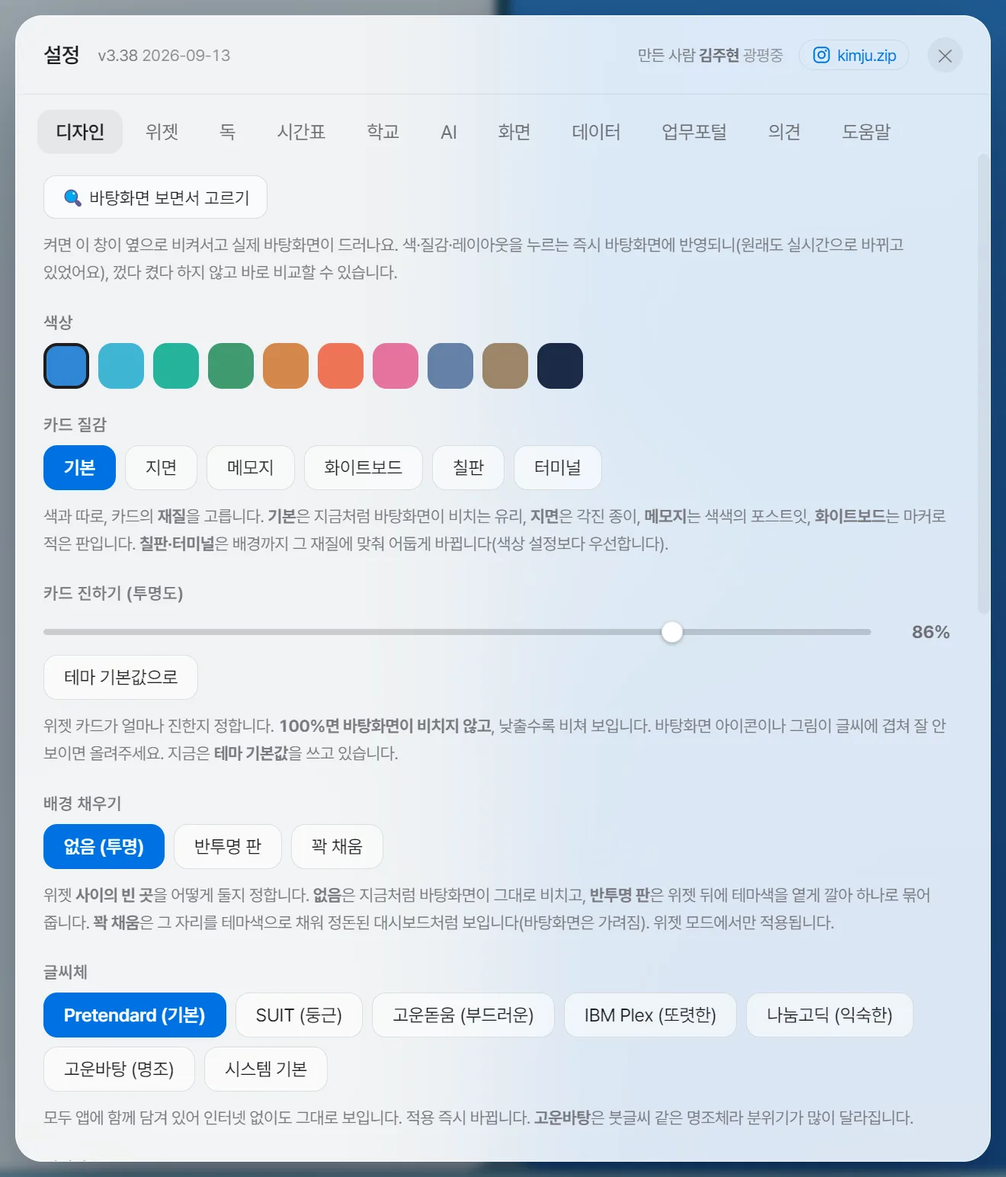
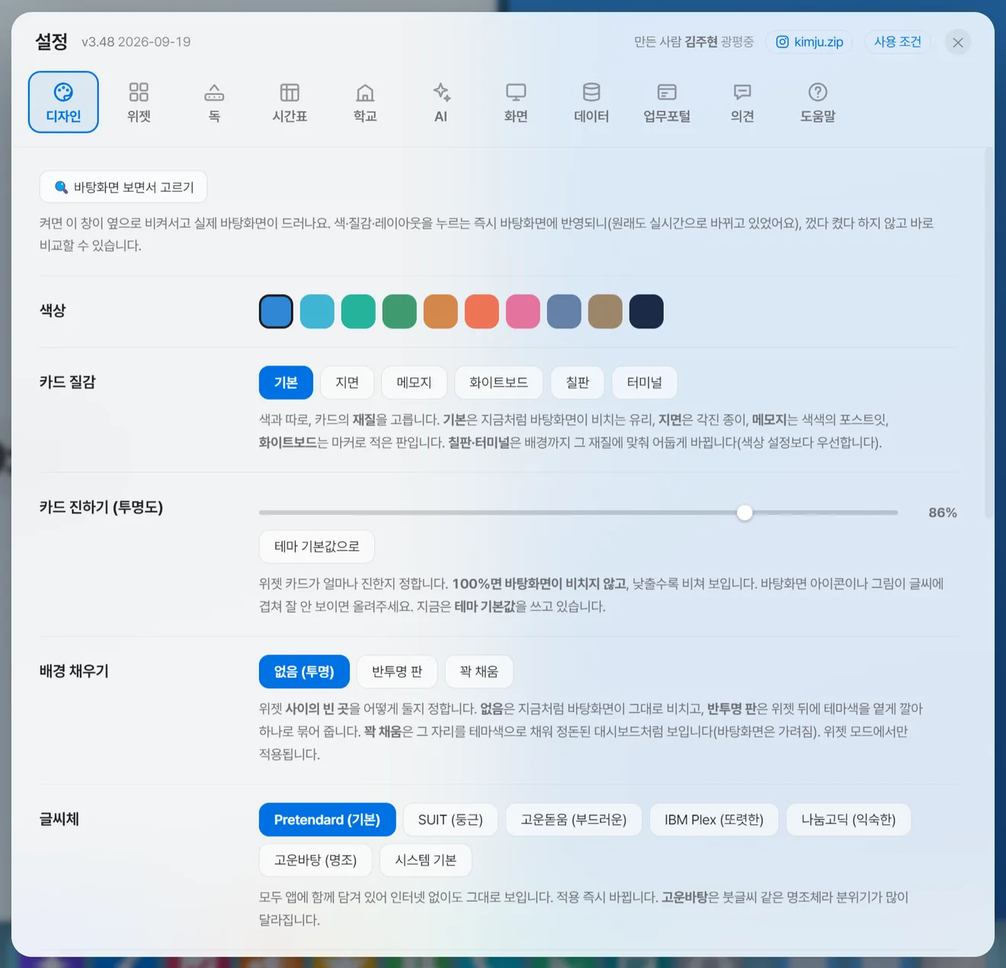
td2 설명서 v3.48 — 7-17 조례·종례 · 6-1 수업 전 알림·학반 칸 고치기 · 시계 13가지 · 새 설정 창 그림 · 비담임 · 폰 조종례·캘린더 교무실 · 일지

diff --git a/td2/index.html b/td2/index.html
@@ -461,6 +461,7 @@
       <a class="s2" href="#d-sign"><span class="num">7-14</span>전광판</a>
       <a class="s2" href="#d-drawer"><span class="num">7-15</span>서랍 · 고정 파일</a>
       <a class="s2" href="#d-clean"><span class="num">7-16</span>바탕화면 정리</a>
+      <a class="s2" href="#d-jojong"><span class="num">7-17</span>조례·종례</a>
       <a href="#phone"><span class="num">폰</span>폰 연동 (m.kimju.kr/td2)</a>
       <a href="#scfg"><span class="num">08</span>설정 낱낱이</a>
       <a href="#s7"><span class="num">09</span>위젯 모드 · 단축키</a>
@@ -569,6 +570,7 @@
         <a class="s2" href="#d-sign">7-14 · 전광판</a>
         <a class="s2" href="#d-drawer">7-15 · 서랍 · 고정 파일</a>
         <a class="s2" href="#d-clean">7-16 · 바탕화면 정리</a>
+        <a class="s2" href="#d-jojong">7-17 · 조례·종례</a>
         <a href="#phone">폰 · 폰 연동 (m.kimju.kr/td2)</a>
         <a href="#scfg">08 · 설정 낱낱이</a>
         <a href="#s7">09 · 위젯 모드 · 단축키</a>
@@ -669,7 +671,8 @@
               <div class="fx" data-k="학반 시간표 나란히 같이 보기 두 개 카드"><span class="fn">내 시간표와 학반 시간표 나란히 <span class="ftag off">기본 꺼짐</span></span><span class="fw">설정 [위젯] → <b>학반 시간표</b>를 켜고 [직접 배치로 두기] — 카드 제목 옆 「2-3 ▾」로 반을 바꿉니다(주간 시간표 쪽 반과 따로 기억)</span></div>
               <div class="fx" data-k="교시 시각 쉬는 시간 시정 수기 직접"><span class="fn">교시 시각 직접 정하기</span><span class="fw">설정 [시간표] → 교시 시각 <b>[수기 입력]</b> — 쉬는 시간이 교시마다 다른 학교(1교시 뒤 15분, 2교시 뒤 10분)는 여기서 맞춥니다</span></div>
               <div class="fx" data-k="요일마다 다른 시정 수요일 단축"><span class="fn">요일마다 다른 시정</span><span class="fw">설정 [시간표] → 수기 입력 → <b>어느 요일</b>에서 그 요일만 따로 적습니다(수요일 단축 등)</span></div>
-              <div class="fx" data-k="수업 시작 알림 종 울림 교시"><span class="fn">수업 시작 알림 <span class="ftag off">기본 꺼짐</span></span><span class="fw">설정 [시간표] 맨 위 — 과목을 적어 둔 교시만 울립니다. 딱 맞춰·5분 전·10분 전</span></div>
+              <div class="fx" data-k="수업 시작 알림 수업 전 알림 종 울림 교시 1분 전 방송 멘트 목소리 초등 큰 팝업 화면 전체 보조 모니터 TV"><span class="fn">수업 전 알림 <span class="ftag off">기본 꺼짐</span> <span class="ftag hid">큰 팝업·목소리 v3.48~</span></span><span class="fw">설정 [시간표] 맨 위 — 내 수업만/모든 교시(초등) · 시작 시각~10분 전 · 작은 알림/가운데 큰 팝업/화면 전체 · 멘트를 목소리로 → <a href="#w-ttalm">6-1</a></span></div>
+              <div class="fx" data-k="학반 시간표 칸 고치기 수정 과목 바꾸기 선생님 나이스 덮기 수업 없음"><span class="fn">학반 시간표 칸 고치기 <span class="ftag hid">v3.48~</span></span><span class="fw">주간 시간표 [학반]에서 칸을 누르면 과목·선생님을 고칩니다. 나이스보다 앞서고 [나이스 값으로] 되돌리기 → <a href="#w-tt">6-1</a></span></div>
               <div class="fx" data-k="퇴근하세요 문구 바꾸기 공강 지금 이 시간"><span class="fn">「퇴근하세요!」 문구 바꾸기</span><span class="fw">설정 [시간표] 아래쪽 — 수업 전·공강·퇴근 뒤에 뜰 말을 직접 씁니다(교실 화면에 띄우실 때)</span></div>
               <div class="fx" data-k="전체 시간표 과목별 교사별 학급별 겹침"><span class="fn">전체 시간표(과목별·교사별)</span><span class="fw">시간표 제목 옆 <b>[전체 시간표]</b> — 학기 정규 시간표를 과목별·교사별·학급별(오늘)로 봅니다</span></div>
               <div class="fx" data-k="학교 전체 시간표 모든 학급 한눈에 한 장 오늘 전체시간표 학급시간표 컴시간 알리미"><span class="fn">학교 전체 시간표 한 장 <span class="ftag hid">v3.45~</span></span><span class="fw">[전체 시간표] → [학급별(오늘)] → <b>[학교 전체]</b> — 모든 학급의 오늘 시간표를 왼쪽 교시·가로 학급 표 한 장으로</span></div>
@@ -704,10 +707,12 @@
               <div class="fx" data-k="조식 석식 저녁 아침 끼니"><span class="fn">조식·중식·석식 골라 보기</span><span class="fw">설정 [위젯] → 급식 → <b>보여줄 끼니</b>. 세 끼가 다 뜨면 좁은 카드에서 중식이 잘리거든요</span></div>
               <div class="fx" data-k="시간대별 날씨 비 언제 몇시 강수확률"><span class="fn">시간대별 날씨 <span class="ftag hid">숨은 자리</span></span><span class="fw">날씨 카드에 「시간대별」 화살표가 보이면 <b>카드를 클릭</b> — 18시간치 날씨·기온이 뜨고, <b>그 시간에 내 수업이 있으면 교시와 과목이 함께</b> 붙습니다(월~금, 체육 시간 확인용)</span></div>
               <div class="fx" data-k="날씨 지역 안 맞음 다른 곳 구미"><span class="fn">날씨 지역 바꾸기</span><span class="fw">설정 [학교] → 날씨 지역 — 「경상북도 구미시」보다 <b>「구미」</b>처럼 짧게 넣는 편이 잘 잡힙니다</span></div>
-              <div class="fx" data-k="시계 모양 아날로그 바늘 오전 오후 초"><span class="fn">시계 모양 5가지</span><span class="fw">설정 [디자인] → 시계 모양 — 기본·오전/오후·초까지·바늘·타일. <b>바늘 시계는 저학년 시각 읽기 지도</b>에도 쓰입니다</span></div>
+              <div class="fx" data-k="시계 모양 아날로그 바늘 오전 오후 초"><span class="fn">시계 모양 13가지</span><span class="fw">설정 [디자인] → 시계 모양 — 기본·오전/오후·초까지·바늘·타일·넘김판·전자시계·초 고리·한글 시계·교실 벽시계·세로 쌓기·하루 막대·알약. <b>바늘 시계는 저학년 시각 읽기 지도</b>에도 쓰입니다</span></div>
             </div>
 
             <div class="fgroup"><h4>명렬 · 출결 · 생기부</h4>
+              <div class="fx" data-k="조례 종례 조종례 전달사항 알림장 반톡 카톡 공지 멘트 AI"><span class="fn">조례·종례 전달사항 <span class="ftag hid">v3.48~</span></span><span class="fw">독 <b>✉ 조종례</b> — 짧게 적으면 저장 · [AI로 멘트 만들기] · [복사]로 카톡에 · 폰에서 [공유] → <a href="#d-jojong">7-17</a></span></div>
+              <div class="fx" data-k="비담임 담임 아님 담임 안 맡음 0학년 0반 교과"><span class="fn">비담임 <span class="ftag hid">v3.48~</span></span><span class="fw">설정 [학교] → 담임반 줄의 <b>[비담임]</b> — 출결은 명렬에 넣은 반으로, 생기부 학반 칸은 비워 둡니다. 학년·반을 0으로 적어도 비담임으로 봅니다</span></div>
               <div class="fx" data-k="명렬 학생 이름 등록 붙여넣기 번호"><span class="fn">명렬 만들기</span><span class="fw">독 <b>◫ 명렬</b> → 아래에서 학반(<b>「3-2」 꼴</b>)과 이름(여러 명은 <b>쉼표로</b>). <b>「3 홍길동」처럼 적으면 그 번호로</b> 들어갑니다. 엑셀 명단은 [📥 파일에서 불러오기]로</span></div>
               <div class="fx" data-k="학생 여러명 고르기 모으기 특수반 방과후 빼기 지우기 전학 한꺼번에"><span class="fn">여러 반 학생을 모으기 · 여러 명 빼기 <span class="ftag hid">숨은 자리</span></span><span class="fw">명렬 → <b>[여러 명 고르기]</b> → 이름을 눌러 고른 뒤 <b>[고른 N명 모으기]</b>. 특수반·방과후반처럼 흩어진 학생을 묶습니다(원래 반에서 빠지지 않습니다). 같은 자리의 <b>[고른 N명 빼기]</b>는 묻지 않고 빼니 6초 안에 [되돌리기]</span></div>
               <div class="fx" data-k="연락처 전화번호 학부모 부모 학생 휴대폰 선택과목 상세 보기 명렬 표 비고"><span class="fn">명렬에 연락처·선택과목 적기 <span class="ftag hid">v3.36~</span></span><span class="fw">명렬 → <b>[📋 상세 보기]</b> — 학생 연락처·부모 연락처·선택과목·비고가 표로 펼쳐지고, 칸을 눌러 엑셀처럼 고친 뒤 [저장]. 엑셀 명렬을 불러오면 이 열도 함께 읽고, 찾기 칸은 선택과목·연락처 끝 네 자리로도 거릅니다. <b>연락처를 가리지 않으니 학생이 보는 화면에서는 꺼 두세요</b></span></div>
@@ -822,15 +827,25 @@
           <div class="log-h"><h3>업데이트 일지</h3><span>새 판에서 달라진 것만 적어 둡니다.</span></div>
 
           <div class="log-item">
-            <div class="log-top"><span class="log-ver">v3.47</span><span class="log-date">2026. 9. 19.</span><span class="log-new">최신</span></div>
+            <div class="log-top"><span class="log-ver">v3.48</span><span class="log-date">2026. 9. 20.</span><span class="log-new">최신</span></div>
+            <ul>
+              <li><b>조례·종례</b> — 독 ✉ 조종례 · 적으면 저장 · AI 멘트 · 카톡 복사 · 폰 [공유] → <a href="#d-jojong">7-17</a></li>
+              <li><b>수업 전 알림</b> — 모든 교시(초등) · 1분 전 · 큰 팝업/화면 전체 · 목소리(여자·남자) · 모니터 고르기 → <a href="#w-ttalm">6-1</a></li>
+              <li><b>학반 시간표 칸 고치기</b> · <b>시계 13가지</b> · <b>새 설정 창</b> · <b>[비담임]</b> · 폰 캘린더에 교무실·업무 일정표</li>
+            </ul>
+          </div>
+
+          <details class="log-more">
+            <summary>지난 판 더 보기</summary>
+
+          <div class="log-item">
+            <div class="log-top"><span class="log-ver">v3.47</span><span class="log-date">2026. 9. 19.</span></div>
             <ul>
               <li><b>업무 일정표</b> — 달마다 탭이 있는 학교 시트의 부서별 일정을 [오늘] [주간] [월별]로 · [시트]는 그 날짜 줄로 → <a href="#w-yplan">6-19</a></li>
               <li><b>달력</b>에 업무 일정표·온라인 교무실을 함께 띄우기(부서·갈래 고르기) · 두 카드 이름 바꾸기 → <a href="#w-cal">6-3</a></li>
             </ul>
           </div>
 
-          <details class="log-more">
-            <summary>지난 판 더 보기</summary>
 
           <div class="log-item">
             <div class="log-top"><span class="log-ver">v3.46</span><span class="log-date">2026. 9. 19.</span></div>
@@ -1422,10 +1437,10 @@
         <p class="body">위젯 아래쪽 <strong>독(Dock)</strong>에서 <strong>톱니바퀴(설정)</strong>를 누르고 <strong>[학교] 탭</strong>으로 갑니다. (날씨 위젯의 <strong>[학교 설정]</strong> 버튼을 눌러도 같은 곳으로 가요.)</p>
         <div class="steps">
           <div class="step"><h4>학교 찾기</h4><p><strong>학교명</strong>을 입력하고 <code>검색</code>을 눌러 목록에서 우리 학교 줄을 누르세요. 누르는 순간 저장되고 「"○○" 등록 — 급식·일정·날씨를 받아옵니다」가 뜹니다. 못 찾으면 <strong>「용산초」처럼 짧게</strong> — 나이스 등록명에 지역명이 없는 학교가 많습니다.</p></div>
-          <div class="step"><h4>담임반 (선택)</h4><p>담임이라면 「담임반」에 학년·반 숫자를 넣으세요. 출결 표의 기본 반, 학반 시간표의 ★ 담임반, 생기부 학반 기본값에 쓰입니다.</p></div>
+          <div class="step"><h4>담임반 (선택)</h4><p>담임이라면 「담임반」에 학년·반 숫자를 넣으세요. 출결 표의 기본 반, 학반 시간표의 ★ 담임반, 생기부 학반 기본값에 쓰입니다. 담임이 아니시면 옆의 <strong>[비담임]</strong>을 누르세요.</p></div>
           <div class="step"><h4>날씨 지역 확인</h4><p>보통 학교 주소로 자동 인식됩니다. 날씨가 안 뜨면 <code>학교 주소로 다시 찾기</code>를 누르거나, 지역 칸에 <strong>시·군·구 이름</strong>만 넣고 <code>이 지역으로</code>를 눌러 주세요 — “경상북도 구미시”보다 <strong>“구미”</strong>가 더 잘 잡혀요.</p></div>
         </div>
-        <figure class="shot"><img src="shots/20-cfg-04-school.webp" width="1320" height="1544" alt="설정 학교 탭" loading="lazy"><figcaption><b>설정 → 학교 탭</b> — 학교 찾기 · 담임반 · 시간표 출처 · 날씨 지역 · 학사일정 · 구글 캘린더 · 새로 받기, 그리고 맨 아래 <b>NEIS 키</b> 칸이 있어요(Gemini 키는 [AI] 탭).</figcaption></figure>
+        <figure class="shot"><img src="shots/20-cfg-04-school.webp" width="1320" height="1271" alt="설정 학교 탭" loading="lazy"><figcaption><b>설정 → 학교 탭</b> — 학교 찾기 · 담임반 · 시간표 출처 · 날씨 지역 · 학사일정 · 구글 캘린더 · 새로 받기, 그리고 맨 아래 <b>NEIS 키</b> 칸이 있어요(Gemini 키는 [AI] 탭).</figcaption></figure>
         <div class="note warn"><span class="ic"><svg class="ic" viewBox="0 0 24 24"><path d="M12 4l9 16H3z"/><path d="M12 10.5v3.5"/><path d="M12 17h.01"/></svg></span><div><b>NEIS 키를 꼭 넣어 주세요 (중요)</b><p>학교 등록만 해도 급식·학사일정·시간표가 나옵니다(v3.22부터 키가 없어도 빠짐없이 받도록 고쳤습니다). 다만 키가 없으면 나이스가 <strong>한 번에 조금씩만</strong> 돌려줘서 여러 번 나눠 받느라 느리고, <strong>큰 학교는 전체 시간표가 일부만</strong> 나올 수 있으며, 학교 검색이 잘리면 「N곳 중 M곳만 보입니다」라고 알려 드립니다. <strong>NEIS 키는 무료</strong>이고 몇 분이면 받을 수 있으니 아래 순서대로 넣어 두세요.</p></div></div>
 
         <h3><svg class="ic" viewBox="0 0 24 24"><circle cx="8" cy="8" r="4.2"/><path d="M11 11l8.5 8.5"/><path d="M16 16l2-2M18.5 18.5l2-2"/></svg>NEIS 키 발급받아 넣기</h3>
@@ -1543,7 +1558,7 @@
           <img class="mini-art" src="mini-brush.png" width="360" height="360" alt="붓으로 별을 그리는 클레이 캐릭터" loading="lazy" />
         </div>
         <p class="body">설정에는 <strong>디자인 · 위젯 · 독 · 시간표 · 학교 · AI · 화면 · 데이터 · 업무포털 · 의견 · 도움말</strong> 열한 탭이 있어요. 꾸미기는 대부분 <strong>[디자인]</strong> 탭에서 해결되고, 누르는 즉시 바뀝니다(저장 단추 없음). 탭마다 들어 있는 항목은 08번에 모두 적어 두었습니다.</p>
-        <figure class="shot"><img src="shots/20-cfg-00-look.webp" width="1320" height="1544" alt="설정 디자인 탭" loading="lazy"><figcaption><b>설정 → 디자인 탭</b> — 테마 색 · 카드 질감 · 진하기 · 글씨체 · 레이아웃 · 캘린더 크기 · 시계 모양 · 직접 배치를 고릅니다.</figcaption></figure>
+        <figure class="shot"><img src="shots/20-cfg-00-look.webp" width="1320" height="1271" alt="설정 디자인 탭" loading="lazy"><figcaption><b>설정 → 디자인 탭</b> — 테마 색 · 카드 질감 · 진하기 · 글씨체 · 레이아웃 · 캘린더 크기 · 시계 모양 · 직접 배치를 고릅니다.</figcaption></figure>
         <div class="tips">
           <div class="tipcard"><span class="te"><svg class="ic" viewBox="0 0 24 24"><path d="M12 3a9 9 0 1 0 0 18c1.4 0 2-1 2-2s-.6-1.4-.6-2.4.7-1.6 1.6-1.6H18a3 3 0 0 0 3-3c0-4.4-4-6-9-6z"/><circle cx="7.5" cy="11.5" r="1"/><circle cx="10.5" cy="7.5" r="1"/><circle cx="15" cy="8" r="1"/></svg></span><h4>테마 색</h4><p>색 동그라미 <b>10개</b> — 왼쪽부터 파랑·하늘·민트·이끼·모래·산호·분홍·슬레이트·종이·나이트(어두움). 마우스를 올려도 이름은 안 뜨니 순서로 찾으세요.</p></div>
           <div class="tipcard"><span class="te"><svg class="ic" viewBox="0 0 24 24"><path d="M5 18L9.5 6l4.5 12"/><path d="M6.7 14h5.6"/><path d="M17 18v-6"/><path d="M14.5 12.5a2.5 2.5 0 0 1 5 0"/></svg></span><h4>글씨체</h4><p>프리텐다드·SUIT·고운돋움·IBM Plex·나눔고딕·고운바탕(명조)·시스템 기본 <b>7가지</b>. 글꼴이 프로그램에 들어 있어 인터넷 없이도 그대로 보여요.</p></div>
@@ -1564,7 +1579,7 @@
           <p>🖥 <strong>위젯을 다른 모니터에 띄우고 싶으세요?</strong> — <strong>설정 → [화면] 탭 → 「모니터」</strong>에서 <strong>주 모니터 · 왼쪽 화면 · 오른쪽 화면</strong> 중 하나를 고르시면 됩니다. 고르는 즉시 위젯 전체가 그 모니터로 옮겨 가요. <u>위젯을 마우스로 끌어서 다른 모니터로 넘기는 방식이 아닙니다</u> — 위젯 끌기는 <strong>한 모니터 안에서만</strong> 됩니다. 모니터가 한 대면 「주 모니터」 하나만 보입니다.</p>
           <p>🖥 <strong>노트북에 모니터를 붙였다 떼시나요? <span style="font-size:.85em;opacity:.7">(v3.0 · v3.10에서 더 정확해짐)</span></strong> — 배치는 <strong>화면 구성마다 따로</strong> 기억됩니다. 노트북만 쓸 때와 모니터를 붙였을 때가 각각 저장되어, <u>선을 뺐다 꽂아도 그 구성의 배치가 저절로 돌아옵니다</u>. 버튼을 누를 일도 없어요 — 자동입니다. v3.10부터는 <strong>모니터 대수까지 함께 기억</strong>해서, 두 구성의 해상도가 같아도 서로 섞이지 않습니다.</p>
           <p><strong>[다른 화면 구성에서 복사]</strong>는 언제 쓰나요? — <u>그 구성을 처음 만났을 때 한 번</u>입니다. 예를 들어 두 모니터에서 배치를 공들여 잡아 두었는데 HDMI를 뽑아 처음으로 한 모니터가 되면, 한 모니터 쪽에는 저장된 배치가 없어 기본 배치가 나옵니다. 이때 처음부터 다시 끌지 말고 이 버튼을 누르세요 — <strong>두 모니터에서 잡아 둔 배치를 화면 크기에 비율로 맞춰</strong> 가져옵니다. 시계가 오른쪽 위였으면 여기서도 오른쪽 위에, 축소판으로요. 어긋난 한두 개만 다듬으면 되고, 한 번 다듬어 두면 그다음부터는 이 구성도 저절로 돌아오는 쪽이 됩니다. (다른 구성에 저장된 배치가 있을 때만 버튼이 나타납니다.)</p></div></div><div class="note tip"><span class="ic"><svg class="ic" viewBox="0 0 24 24"><path d="M12 9v4"/><path d="M12 17h.01"/><circle cx="12" cy="12" r="9"/></svg></span><div><b>위젯을 켰는데 안 보인다면</b><p>레이아웃마다 담을 수 있는 자리가 정해져 있어요. 자리가 모자라면 그 위젯은 화면에 못 올라오고, [위젯] 탭에 <strong>“지금 레이아웃엔 자리가 없어요”</strong>라고 표시됩니다. 켤 때 화면 아래 뜨는 <strong>[직접 배치로 두기]</strong>를 누르면 빈 곳에 앉습니다(놓쳤으면 [디자인] → [지금 자리 그대로 굳히기]). 다른 레이아웃으로 바꾸거나 덜 쓰는 위젯을 꺼도 됩니다. <strong>주간학습안내 · 출결 · 학반 시간표 · 메모 2~4 · 앨범 2~4</strong>는 배치표에 자리가 없어 늘 직접 배치로 둡니다.</p></div></div>
-        <figure class="shot"><img src="shots/20-cfg-02-dock.webp" width="1320" height="1544" alt="설정 독 탭" loading="lazy"><figcaption><b>설정 → 독 탭</b> — 독 위치(아래/왼쪽/오른쪽/안 씀), 표시할 기능과 순서, 아이콘 모양, 프로그램 바로가기·서랍을 관리해요.</figcaption></figure>
+        <figure class="shot"><img src="shots/20-cfg-02-dock.webp" width="1320" height="1271" alt="설정 독 탭" loading="lazy"><figcaption><b>설정 → 독 탭</b> — 독 위치(아래/왼쪽/오른쪽/안 씀), 표시할 기능과 순서, 아이콘 모양, 프로그램 바로가기·서랍을 관리해요.</figcaption></figure>
         <p class="body"><strong>독(Dock)</strong>은 화면의 실행 막대예요. [독] 탭에서 <strong>표시할 기능과 순서</strong>를 바꾸고, 자주 쓰는 <strong>프로그램 바로가기</strong>를 끼워 넣을 수 있어요. 아이콘은 그림↔기호↔글자로 바꿔집니다. 프로그램 바로가기는 <strong>원래 아이콘을 또렷하게</strong> 가져와 놓아요.</p>
         <p class="body"><strong>독을 안 쓰실 수도 있어요 <span style="font-size:.85em;opacity:.7">(v2.9.19)</span></strong> — [독] 탭의 독 위치에서 <strong>안 씀</strong>을 고르면 독이 사라지고 <u>그 자리까지 위젯이 넓게 씁니다.</u> 위젯만 두고 깔끔하게 쓰고 싶을 때 좋아요. 아이콘 순서·모양은 그대로 남아 있어서 다시 켜면 예전 그대로 돌아옵니다.<br>다만 독으로 열던 <strong>AI 비서 · 생기부 · 전광판 · 즐겨찾기 · 명렬 · 내선번호</strong>와 <strong>서랍 · 프로그램 바로가기</strong>도 함께 사라지니 참고하세요. <u>설정은 화면 오른쪽 아래 트레이 아이콘을 우클릭</u>해 여시면 됩니다.</p>
         <h3><svg class="ic" viewBox="0 0 24 24"><path d="M12 3a9 9 0 1 0 0 18c1.4 0 2-1 2-2s-.6-1.4-.6-2.4.7-1.6 1.6-1.6H18a3 3 0 0 0 3-3c0-4.4-4-6-9-6z"/><circle cx="7.5" cy="11.5" r="1"/><circle cx="10.5" cy="7.5" r="1"/><circle cx="15" cy="8" r="1"/></svg>테마 색 10가지</h3>
@@ -1608,14 +1623,22 @@
           <figure><img src="shots/12-lay-09-j.webp" width="760" height="476" alt="와이드 배치" loading="lazy"><figcaption>와이드</figcaption></figure>
         </div>
 
-        <h3><svg class="ic" viewBox="0 0 24 24"><circle cx="12" cy="12" r="8"/><path d="M12 8v4l3 2"/></svg>시계 모양 5가지</h3>
-        <p class="body">설정 <strong>[디자인] → 시계 모양</strong>. <strong>바늘 시계</strong>는 저학년 시각 읽기 지도에도 쓰실 수 있고, <strong>오전·오후</strong>는 교실 뒤에서도 잘 보입니다.</p>
+        <h3><svg class="ic" viewBox="0 0 24 24"><circle cx="12" cy="12" r="8"/><path d="M12 8v4l3 2"/></svg>시계 모양 13가지 <span class="ftag hid">8가지 v3.48~</span></h3>
+        <p class="body">설정 <strong>[디자인] → 시계 모양</strong>. <strong>바늘 시계</strong>·<strong>교실 벽시계</strong>는 저학년 시각 읽기 지도에도 쓰실 수 있고, <strong>오전·오후</strong>·<strong>전자시계</strong>는 교실 뒤에서도 잘 보입니다. <strong>한글 시계</strong>는 «오후 세 시 사십칠 분»처럼 글로, <strong>하루 막대</strong>는 퇴근까지 남은 시간을 막대로 보여 줍니다.</p>
         <div class="gal c3">
-          <figure><img src="shots/13-clock-0-plain.webp" width="760" height="476" alt="기본 시계" loading="lazy"><figcaption>기본</figcaption></figure>
-          <figure><img src="shots/13-clock-1-ampm.webp" width="760" height="476" alt="오전 오후 시계" loading="lazy"><figcaption>오전·오후</figcaption></figure>
-          <figure><img src="shots/13-clock-2-sec.webp" width="760" height="476" alt="초까지 나오는 시계" loading="lazy"><figcaption>초까지</figcaption></figure>
-          <figure><img src="shots/13-clock-3-analog.webp" width="760" height="476" alt="바늘 시계" loading="lazy"><figcaption>바늘</figcaption></figure>
-          <figure><img src="shots/13-clock-4-tile.webp" width="760" height="476" alt="타일 시계" loading="lazy"><figcaption>타일</figcaption></figure>
+          <figure><img src="shots/13-clock-00-plain.webp" width="760" height="476" alt="기본 시계" loading="lazy"><figcaption>기본</figcaption></figure>
+          <figure><img src="shots/13-clock-01-ampm.webp" width="760" height="476" alt="오전 오후 시계" loading="lazy"><figcaption>오전·오후</figcaption></figure>
+          <figure><img src="shots/13-clock-02-sec.webp" width="760" height="476" alt="초까지 나오는 시계" loading="lazy"><figcaption>초까지</figcaption></figure>
+          <figure><img src="shots/13-clock-03-analog.webp" width="760" height="476" alt="바늘 시계" loading="lazy"><figcaption>바늘</figcaption></figure>
+          <figure><img src="shots/13-clock-04-tile.webp" width="760" height="476" alt="타일 시계" loading="lazy"><figcaption>타일</figcaption></figure>
+          <figure><img src="shots/13-clock-05-flip.webp" width="760" height="476" alt="넘김판 시계" loading="lazy"><figcaption>넘김판</figcaption></figure>
+          <figure><img src="shots/13-clock-06-seg.webp" width="760" height="476" alt="전자시계" loading="lazy"><figcaption>전자시계</figcaption></figure>
+          <figure><img src="shots/13-clock-07-ring.webp" width="760" height="476" alt="초 고리 시계" loading="lazy"><figcaption>초 고리</figcaption></figure>
+          <figure><img src="shots/13-clock-08-word.webp" width="760" height="476" alt="한글로 읽어 주는 시계" loading="lazy"><figcaption>한글 시계</figcaption></figure>
+          <figure><img src="shots/13-clock-09-school.webp" width="760" height="476" alt="교실 벽시계" loading="lazy"><figcaption>교실 벽시계</figcaption></figure>
+          <figure><img src="shots/13-clock-10-stack.webp" width="760" height="476" alt="시와 분을 세로로 쌓은 시계" loading="lazy"><figcaption>세로 쌓기</figcaption></figure>
+          <figure><img src="shots/13-clock-11-bar.webp" width="760" height="476" alt="퇴근까지 남은 시간 막대 시계" loading="lazy"><figcaption>하루 막대</figcaption></figure>
+          <figure><img src="shots/13-clock-12-pill.webp" width="760" height="476" alt="알약 모양 시계" loading="lazy"><figcaption>알약</figcaption></figure>
         </div>
 
       </section>
@@ -1730,8 +1753,26 @@
             <ul>
               <li>처음 보이는 반 — 전에 고른 반 → 없으면 설정 [학교]의 <strong>담임반</strong> → 그것도 없으면 목록 첫 반. 제목 옆에 「2학년 3반 · 담임반 · 이번 학기」</li>
               <li>칸마다 과목 옆에 <strong>선생님 이름</strong>이 작게 붙습니다 — [전체 시간표] → 과목별에서 적어 둔 이름입니다</li>
-              <li>🔴 <strong>남의 반 칸은 눌러도 고쳐지지 않습니다</strong>(읽기 전용)</li>
+              <li><strong>칸을 누르면 과목·선생님을 고칠 수 있습니다</strong> — 나이스가 틀렸거나 바뀐 수업을 바로잡을 때. 아래 «학반 시간표 칸 고치기»를 보세요 <span class="ftag hid">v3.48~</span></li>
               <li>자료가 없을 때 — 학교 미등록 「설정 [학교]를 등록하면…」 / 받는 중 「학기 시간표를 받는 중…」 / 실패 「받지 못했습니다」 + <strong>[다시 받기]</strong> / 컴시간인데 아직 안 받음 + [설정 열기](<strong>[학교] 탭</strong>이 열리면 [지금 가져오기])</li>
+            </ul>
+          </div>
+        </div>
+
+        <div class="feat">
+          <img src="shots/36c-tt-edpop.webp" width="1400" height="764" alt="학반 시간표 칸을 눌러 과목과 선생님을 고치는 창" loading="lazy" />
+          <div class="feat-b">
+            <h4>학반 시간표 칸 고치기 — 나이스보다 앞서게 <span class="ftag hid">v3.48~</span></h4>
+            <span class="where">주간 시간표 [학반] · 학반 시간표 카드에서 칸 누르기</span>
+            <ol class="how">
+              <li>고칠 칸을 누르면 작은 창이 뜨고, 맨 위에 «나이스: 사회 · 박솔»처럼 원래 값이 보입니다</li>
+              <li><strong>과목</strong>과 <strong>선생님</strong>을 고쳐 <strong>[저장]</strong> — 빈 교시에 새로 넣을 수도 있습니다</li>
+              <li>그 시간에 수업이 없으면 <strong>[수업 없음]</strong>으로 비웁니다</li>
+            </ol>
+            <ul>
+              <li>고친 칸은 <strong>나이스보다 앞서고</strong>, 칸 오른쪽 위에 작은 점이 붙어 고친 칸인 줄 압니다</li>
+              <li>원래대로 돌리려면 그 칸을 다시 눌러 <strong>[나이스 값으로]</strong></li>
+              <li>고친 칸은 로그인한 다른 PC에도 따라갑니다</li>
             </ul>
           </div>
         </div>
@@ -1795,6 +1836,33 @@
             </ol>
             <p><strong>학급별(오늘)</strong>은 오늘 하루 기준이라 휴업·행사가 반영된 그날 시간표입니다(학년 탭). 키 없이 일부만 받았으면 「전체 N개 학급 중 M개만 불러왔습니다」와 [학교 탭 열기]가 뜹니다.</p>
             <p>학년 탭 옆 <strong>[학교 전체]</strong>를 누르면 <u>학년 구분 없이 모든 학급의 오늘 시간표가 표 한 장</u>으로 나옵니다 — 왼쪽이 교시, 가로가 1학년 1반부터 끝 반까지(학년 사이에 경계선). 창이 화면 가득 넓어져 한 학교 30학급쯤은 한눈에 들어오고, 그보다 많으면 옆으로 밀어 보세요(교시 칸은 붙어 있습니다). 컴시간을 쓰시면 이번주 교체 칸도 호박빛으로 보입니다. <span class="ftag hid">v3.45~</span></p>
+          </div>
+        </div>
+
+        <div class="feat" id="w-ttalm">
+          <img src="shots/20-cfg-03b-ttalm.webp" width="1320" height="1271" alt="설정 시간표 탭의 수업 전 알림 칸" loading="lazy" />
+          <div class="feat-b">
+            <h4>수업 전 알림 — 초등 교실 방송처럼 <span class="ftag off">기본 꺼짐</span> <span class="ftag hid">큰 팝업·목소리 v3.48~</span></h4>
+            <span class="where">설정 [시간표] 맨 위 «수업 전 알림» 스위치</span>
+            <p>켜기만 하면 예전과 같습니다 — <b>내 수업만 · 시작 시각 · 작은 알림</b>(오른쪽 아래 윈도우 알림, 선생님만 봄). 교실 아이들에게 알리려면 아래처럼 고르세요.</p>
+            <table class="compare">
+              <thead><tr><th>줄</th><th>고르는 것</th></tr></thead>
+              <tbody>
+                <tr><th>누구 수업</th><td><b>내 수업만</b>(기본 — 시간표에 과목을 적은 교시만, 중·고 교과) / <b>모든 교시</b>(칸이 비어도 날마다 모든 교시 — 초등 권장). 점심시간은 알리지 않습니다</td></tr>
+                <tr><th>언제</th><td>시작 시각(기본) · 1 · 2 · 3 · 5 · 10분 전 — 아이들을 미리 앉히려면 1~2분 전</td></tr>
+                <tr><th>띄우는 방식</th><td>작은 알림(기본) / <b>가운데 큰 팝업</b> / <b>화면 전체</b> — 큰 팝업·화면 전체는 «띵동» 뒤 멘트를 <b>목소리로 읽어 줍니다</b>. 누르거나 닫히는 시간이 지나면 닫히고, 선생님이 쓰던 글은 끊기지 않습니다</td></tr>
+                <tr><th>모니터</th><td>보조 모니터(기본) · 주 모니터 · 모든 모니터 · 왼쪽·오른쪽 모니터 — 교실 TV를 보조 모니터로 쓰시면 위젯은 내 화면에 두고 알림만 TV에 뜹니다</td></tr>
+                <tr><th>소리 · 목소리</th><td>띵동+목소리 · 띵동만 · 목소리만 · 소리 없음 / 목소리 <b>여자(기본) · 남자</b> · 소리 크기 · 말 빠르기 · 닫히는 시간(15초 · 30초 · 1분)</td></tr>
+                <tr><th>큰 글씨 · 멘트</th><td>기본은 큰 글씨 <b>[교시] [과목]</b> + 멘트 <b>시작 [분] 전입니다. 자리에 앉습니다.</b> → «<b>1교시 국어</b> / 시작 1분 전입니다. 자리에 앉습니다.»</td></tr>
+              </tbody>
+            </table>
+            <ul>
+              <li>멘트 아래 <strong>[교시] [과목] [분]</strong> 단추를 누르면 커서 자리에 들어가고, 알림 때 «3교시» «국어» «1분»으로 바뀝니다. [과목]은 «국어 2-3»처럼 적은 칸에서도 <b>과목 이름만</b> 나옵니다. «시작 시각»에 알리면 «[분] 전»은 «시간»이 되어 «시작 시간입니다»로 읽습니다</li>
+              <li>적는 대로 <strong>«실제로는 이렇게 나옵니다»</strong>에 미리 보이고, <strong>[기본 멘트로]</strong>로 되돌립니다. 점심 뒤 5교시처럼 <strong>교시마다 다른 멘트</strong>도 따로 적을 수 있습니다</li>
+              <li><strong>[지금 시험으로 띄우기]</strong>로 바로 확인하세요 — 주말에 눌러도 평일 시간표의 과목으로 띄웁니다</li>
+              <li>목소리는 멘트를 저장할 때 <b>인터넷으로 한 번 받아</b> PC에 둡니다(알림 순간엔 인터넷이 필요 없음). 학교망에서 받지 못하면 윈도우 기본 목소리로 대신 읽습니다. ⚠ 목소리를 만들 때 멘트 글이 마이크로소프트로 보내지니 <b>학생 이름은 넣지 마세요</b></li>
+              <li>앱이 꺼져 있던 동안 지나간 교시는 알리지 않고, 윈도우 «집중 지원»이 켜져 있으면 작은 알림이 안 뜹니다</li>
+            </ul>
           </div>
         </div>
 
@@ -2305,7 +2373,7 @@
               <li>주간학습안내를 AI로 읽어 둔 주에는 수업 중에 「📖 배울 내용」 한 줄이 붙습니다. 진도에서 「이 날은 ○요일 시간표로」를 건 날은 그 요일로 계산합니다</li>
             </ul>
             <h5>시계</h5>
-            <p>1초마다 바뀌고 아래에 「9월 12일 토요일」. 누르는 기능은 없습니다. 모양은 설정 [디자인] → 시계 모양(기본·오전·오후·초까지·바늘·타일), 테마색으로 채울 카드는 [디자인] → 포인트 카드(날씨·시계·지금 이 시간·없음).</p>
+            <p>1초마다 바뀌고 아래에 「9월 12일 토요일」. 누르는 기능은 없습니다. 모양은 설정 [디자인] → 시계 모양(13가지 — 기본·오전·오후·초까지·바늘·타일·넘김판·전자시계·초 고리·한글 시계·교실 벽시계·세로 쌓기·하루 막대·알약), 테마색으로 채울 카드는 [디자인] → 포인트 카드(날씨·시계·지금 이 시간·없음).</p>
           </div>
         </div>
 
@@ -2791,6 +2859,8 @@
           <a href="#d-fav"><span class="n">7-13</span><span>즐겨찾기</span></a>
           <a href="#d-sign"><span class="n">7-14</span><span>전광판</span></a>
           <a href="#d-drawer"><span class="n">7-15</span><span>서랍 · 고정 파일</span></a>
+          <a href="#d-clean"><span class="n">7-16</span><span>바탕화면 정리</span></a>
+          <a href="#d-jojong"><span class="n">7-17</span><span>조례·종례</span></a>
         </nav>
 
         <!-- ── 7-1 AI 도우미 ── -->
@@ -3386,6 +3456,28 @@
             </ul>
           </div>
         </div>
+
+        <!-- ── 7-17 조례·종례 ── -->
+        <h3 class="wh" id="d-jojong"><span class="n">7-17</span>✉ 조례·종례 — 전달사항 적기 · AI 멘트 · 카톡으로 <span class="ftag hid">v3.48~</span></h3>
+        <div class="feat">
+          <img src="shots/57-jojong.webp" width="760" height="1126" alt="조례 종례 창 — 전달할 것과 AI가 만든 멘트" loading="lazy" style="max-width:440px;width:100%;height:auto;margin:14px auto 0;display:block" />
+          <div class="feat-b">
+            <h4>짧게 적으면 저장 · 멘트로 정리 · 복사</h4>
+            <span class="where">독 <b>✉ 조종례</b> — 오전엔 조례, 오후엔 종례로 열림</span>
+            <ol class="how">
+              <li>위 날짜 옆 화살표로 날을 옮기고 <strong>[조례 | 종례]</strong>를 고릅니다(적어 둔 쪽엔 파란 점)</li>
+              <li><strong>전달할 것</strong>에 «체육복 · 3시 상담 · 우유» 처럼 짧게 적습니다 — 적는 대로 저장됩니다</li>
+              <li><strong>[AI로 조례 멘트 만들기]</strong>를 누르면 «9월 1일(화) 전달사항 / 1. 2. 3. / 당부 한 줄» 모양으로 정리됩니다(Gemini 키 필요)</li>
+              <li><strong>[멘트 복사]</strong> → 카톡·메신저에 붙여 넣기. 멘트는 고쳐도 그대로 저장됩니다</li>
+            </ol>
+            <ul>
+              <li>AI는 <b>적은 것만</b> 씁니다 — 없는 이유·장소·시간은 보태지 않습니다. 그래도 보내기 전에 한 번 읽어 주세요</li>
+              <li>60일이 지난 기록은 저절로 지워집니다</li>
+              <li><b>폰</b>(m.kimju.kr/td2) [오늘] 탭에서도 보고 고치고, <strong>[공유]</strong>로 반톡에 바로 보낼 수 있습니다 → <a class="link" href="#phone">폰 연동</a></li>
+              <li>독에 안 보이면 설정 [독]에서 <b>조종례</b>를 켜세요</li>
+            </ul>
+          </div>
+        </div>
       </section>
 
       <!-- ===== 폰 연동 (v3.40) ===== -->
@@ -3427,8 +3519,8 @@
             <table class="compare">
               <thead><tr><th>탭</th><th>보기</th><th>적기 · 고치기</th></tr></thead>
               <tbody>
-                <tr><th>캘린더</th><td>월 달력(날짜 칸 안 일정 막대 · 넘치면 +N) · 고른 날의 일정·할 일 · 다가오는 일정 · D-Day</td><td>[할 일 | 일정] 골라 적기(달력 아이콘으로 날짜, 일정은 시각·끝나는 날) · 할 일 체크(가운데 줄) · 할 일 눌러 고치기·지우기 · 내 일정 끝냄(반복 일정은 그 날만) · D-Day 추가</td></tr>
-                <tr><th>오늘</th><td>지금 몇 교시·다음 수업 · 시간표(«○요일 시간표로» 표시) · <b>오늘 할 일</b>(마감이 오늘이거나 지난 것이 있을 때만, 5개까지) · 급식·알레르기 · 진도 · 이달 초과근무(급식·초과근무는 설정에서 끌 수 있음)</td><td>진도 줄 눌러 차시·메모·휴강 기록(지난 7일 안 적은 칸은 «안 적음») · 초과근무 적기(+30분·+1시간·사유)</td></tr>
+                <tr><th>캘린더</th><td>월 달력(날짜 칸 안 일정 막대 · 넘치면 +N) · 고른 날의 일정·할 일 · 다가오는 일정 · D-Day · <b>온라인 교무실·업무 일정표</b>(PC 달력 ⚙에서 켠 것만, 같은 색 · PC v3.48~)</td><td>[할 일 | 일정] 골라 적기(달력 아이콘으로 날짜, 일정은 시각·끝나는 날) · 할 일 체크(가운데 줄) · 할 일 눌러 고치기·지우기 · 내 일정 끝냄(반복 일정은 그 날만) · D-Day 추가</td></tr>
+                <tr><th>오늘</th><td>지금 몇 교시·다음 수업 · 시간표(«○요일 시간표로» 표시) · <b>오늘 할 일</b>(마감이 오늘이거나 지난 것이 있을 때만, 5개까지) · 급식·알레르기 · 진도 · 이달 초과근무 · <b>조례·종례</b>(PC v3.48~)(급식·초과근무·조종례는 설정에서 끌 수 있음)</td><td>조례·종례 보기·적기·<b>[공유]</b>로 카톡 반톡에 · 진도 줄 눌러 차시·메모·휴강 기록(지난 7일 안 적은 칸은 «안 적음») · 초과근무 적기(+30분·+1시간·사유)</td></tr>
                 <tr><th>메모</th><td>PC 메모 카드의 쪽지</td><td>메모 쓰기(첫 메모 카드로) · 눌러서 고치기·지우기</td></tr>
                 <tr><th>학생 <span class="ftag off">[학생 자료도]</span></th><td>반 고르기(담임반이 맨 앞) · 날짜별 출결 · 학생마다 상담·활동기록</td><td>출결(구분·종류·교시·사유) · <b>여러 명 골라 한꺼번에</b> 출결 / 출석으로 · 상담 · 활동기록(<b>구분 고르기</b> — 행발·과세특+과목·자율·동아리·진로, 생기부 칩 · PC v3.42~)</td></tr>
                 <tr><th>주간학습 <span class="ftag off">[주간학습안내도]</span></th><td>지난주·이번 주·다음 주 주간학습안내 — <b>하루</b>(요일마다 교시·내용·쪽수) · <b>주간</b> 표(평가 표시) · <b>과목별</b> · <b>원본</b>(사진·PDF는 그대로, 한글·워드는 표 글로) · 안내 문구</td><td>보기만(고치기는 PC에서) · PC v3.43~</td></tr>
@@ -3482,7 +3574,7 @@
             <ul>
               <li><b>보기 편하게</b> — <b>글자 크기</b> 5단계(아주 작게 · 작게 · 보통 · 크게 · 아주 크게) · <b>화면 색</b> 18가지(기본 · 다크 · 네이비 · 칠판 · 종이 · 고대비 + 스킨 12가지: 노션 · 모눈노트 · 다이어리 · 벚꽃 · 딸기우유 · 코랄선셋 · 스크랩북 · 수채화 · 버터토스트 · 민트초코 · 라벤더 · 네온게임 — 누르면 바로 바뀝니다) · <b>글씨체</b>(스킨 글꼴 · Pretendard · 기기 기본 · 나눔고딕 · IBM Plex — 스킨마다 제목 글꼴이 다르고, 따로 고르면 그 글꼴로)</li>
               <li><b>캘린더 탭</b> — 순서 <b>일정 먼저</b>(기본) / <b>할 일 먼저</b> · 달력 크기 보통 / 크게 / 아주 크게(화면을 채우고 일정 제목 두 줄) · 토·일 넣기/빼기 · 주 표시(1주·2주…)</li>
-              <li><b>오늘 탭</b> — 급식 · 초과근무 <b>보기 / 안 보기</b>. 초과근무를 끄면 폰에서 적는 칸도 숨고, PC에서는 그대로 적습니다</li>
+              <li><b>오늘 탭</b> — <b>맨 위 칸</b>(시간표 · 할 일 · 급식 · 진도 · 초과근무 · 조종례 중 하나를 맨 위로, 조종례는 기본으로 맨 아래) · 급식 · 초과근무 · 조종례 <b>보기 / 안 보기</b>. 초과근무를 끄면 폰에서 적는 칸도 숨고, PC에서는 그대로 적습니다</li>
               <li><b>탭·화면 동작</b> — 첫 화면 탭(마지막 · 캘린더 · 오늘 · 메모 · 학생) · 아래 탭 늘 보이기 / 맨 아래에서만 / 올리면 나타나기(내리는 동안 숨고, 조금 올리면 나타남)</li>
               <li>[화면 설정 처음대로] — 화면 설정만 처음으로 돌립니다</li>
               <li><b>[앱으로 설치]</b>(몇 번이든 다시) · 계정(이메일·로그아웃) · 자료를 올린 PC 이름·판·시각</li>
@@ -3500,6 +3592,7 @@
           <div><h2>설정 낱낱이</h2><p>탭 열한 개에 무엇이 들어 있는지, 기본값까지 적어 둡니다.</p></div>
         </div>
         <p class="body">설정은 독 맨 끝의 <strong>⚙</strong>(또는 화면 오른쪽 아래 트레이 아이콘 우클릭 → <strong>⚙ 설정 열기</strong>)에서 엽니다. <strong>디자인 · 위젯 · 독 · 시간표 · 학교 · AI · 화면 · 데이터 · 업무포털 · 의견 · 도움말</strong> 열한 탭이에요. 「어디서 켜는지 모르겠다」 싶으실 때 이 장에서 찾으세요. 아래 항목은 <strong>탭 안에서 위→아래 순서 그대로</strong> 적었습니다.</p>
+        <p class="body">v3.48부터 설정 창은 <strong>탭마다 아이콘</strong>이 붙고, 줄마다 <strong>왼쪽에 이름 · 오른쪽에 고르는 칸</strong>으로 섭니다. 창이 작거나 화면 배율이 커도 잘리지 않게 크기가 맞춰지고, 카드 질감(지면·메모지·화이트보드·칠판·터미널)마다 어울리는 모양으로 바뀝니다.</p>
         <div class="note info"><span class="ic"><svg class="ic" viewBox="0 0 24 24"><circle cx="12" cy="12" r="9"/><path d="M12 11v5.5"/><path d="M12 7.6h.01"/></svg></span><div><b>[저장] 단추는 없습니다 — 누르는 순간 저장됩니다</b><p>스위치를 켜거나 단추를 고르면 그 자리에서 바탕화면에 반영되고 저장까지 끝납니다. 글자를 적는 칸(카드 이름·비밀번호·교시 시각 등)만 <strong>칸을 벗어나거나 Enter</strong>를 눌러야 들어갑니다. 창은 <kbd>Esc</kbd>나 창 바깥을 눌러 닫습니다.</p></div></div>
 
         <div class="tabmap">
@@ -3516,7 +3609,7 @@
               <dt>캘린더 크기</dt><dd>작게 · 보통 · 크게 · 전면 <span class="val">(기본 보통)</span>. <b>「작게」는 점만, 「보통」부터 날짜 칸 안에 일정이 글자로</b> 보입니다. [위젯] 탭 캘린더 줄의 크기와 같은 값이라 어느 쪽에서 바꿔도 같습니다.</dd>
               <dt>달력 글자 크기</dt><dd>보통 · 크게 · 아주 크게 <span class="val">(기본 보통)</span> — 달력 제목 옆 ⚙에서도 바꿉니다. 글자만 커지고 칸 크기는 그대로예요.</dd>
               <dt>포인트 카드 (하나만 테마색으로)</dt><dd>날씨 · 시계 · 지금 이 시간 · 없음 <span class="val">(기본 날씨)</span> — 카드 하나만 테마색으로 꽉 채워 중심을 잡습니다.</dd>
-              <dt>시계 모양</dt><dd>기본(14:32) · 오전·오후(2:32 오후) · 초까지(초가 강조색) · 바늘 · 타일(시·분이 각각 상자) <span class="val">(기본 「기본」)</span></dd>
+              <dt>시계 모양</dt><dd>기본(14:32) · 오전·오후(2:32 오후) · 초까지(초가 강조색) · 바늘 · 타일(시·분이 각각 상자) · 넘김판 · 전자시계 · 초 고리 · 한글 시계(오후 세 시 사십칠 분) · 교실 벽시계 · 세로 쌓기 · 하루 막대(퇴근까지 남은 시간) · 알약 <span class="val">(기본 「기본」)</span></dd>
               <dt>위젯 밀도</dt><dd>빽빽하게 · 보통 · 여유있게 <span class="val">(기본 보통)</span> — 카드 사이 간격입니다.</dd>
               <dt>직접 배치</dt><dd>상황에 따라 보이는 단추가 다릅니다 — <b>[위젯 위치·크기 직접 정하기]</b>(늘 보임, 누르면 설정이 닫히고 곧바로 편집) · <b>[지금 자리 그대로 굳히기]</b>(직접 배치를 안 쓰는 중일 때만) · <b>[원래 배치로]</b>(직접 잡은 배치가 있을 때만 · 지금 화면 구성의 것만 지움) · <b>[다른 화면 구성에서 복사]</b>(다른 모니터 구성에 저장된 배치가 있을 때만 · 가져온 뒤 6초 동안 [되돌리기]). 자세한 것은 05번 아래 상자.</dd>
               <dt>화면 여백</dt><dd>좁게 · 보통 · 넓게 <span class="val">(기본 보통)</span> — 화면 가장자리 여백. 위젯 밀도와 떨어져 <b>탭 맨 아래</b>에 있습니다.</dd>
@@ -3524,7 +3617,7 @@
           </div>
           <details class="tabshot">
             <summary><svg class="ic" viewBox="0 0 24 24"><rect x="3" y="4.5" width="18" height="15" rx="2"/><path d="M3 9h18"/></svg>[디자인] 탭 화면 보기</summary>
-            <img src="shots/20-cfg-00-look.webp" width="1320" height="1544" alt="설정 디자인 탭" loading="lazy" />
+            <img src="shots/20-cfg-00-look.webp" width="1320" height="1271" alt="설정 디자인 탭" loading="lazy" />
           </details>
         </div>
 
@@ -3548,7 +3641,7 @@
           </div>
           <details class="tabshot">
             <summary><svg class="ic" viewBox="0 0 24 24"><rect x="3" y="4.5" width="18" height="15" rx="2"/><path d="M3 9h18"/></svg>[위젯] 탭 화면 보기</summary>
-            <img src="shots/20-cfg-01-wid.webp" width="1320" height="1544" alt="설정 위젯 탭" loading="lazy" />
+            <img src="shots/20-cfg-01-wid.webp" width="1320" height="1271" alt="설정 위젯 탭" loading="lazy" />
           </details>
         </div>
 
@@ -3567,7 +3660,7 @@
           </div>
           <details class="tabshot">
             <summary><svg class="ic" viewBox="0 0 24 24"><rect x="3" y="4.5" width="18" height="15" rx="2"/><path d="M3 9h18"/></svg>[독] 탭 화면 보기</summary>
-            <img src="shots/20-cfg-02-dock.webp" width="1320" height="1544" alt="설정 독 탭" loading="lazy" />
+            <img src="shots/20-cfg-02-dock.webp" width="1320" height="1271" alt="설정 독 탭" loading="lazy" />
           </details>
         </div>
 
@@ -3575,7 +3668,7 @@
           <div class="tabmap-b">
             <h4>시간표 — 알림 · 주말 · 교시 시각</h4>
             <dl>
-              <dt>🔴 수업 시작 알림</dt><dd>「내 수업이 시작되면 알려 주기」 <span class="val">(기본 꺼짐)</span> — 켜면 <b>시작 시각에 딱 맞춰 · 5분 전 · 10분 전</b>이 나옵니다. <b>과목을 적어 둔 교시만</b> 윈도우 알림으로 울리고, 알림은 누를 때까지 남습니다. 주말은 「주말 수업」을 따르고, 앱이 꺼져 있던 동안 지나간 교시·켜는 순간 이미 지난 교시는 울리지 않습니다. 윈도우 <b>「집중 지원(방해 금지)」</b>이 켜져 있으면 알림이 안 뜹니다.</dd>
+              <dt>🔴 수업 전 알림</dt><dd>「내 수업이 시작되면 알려 주기」 <span class="val">(기본 꺼짐)</span> — 켜면 누구 수업(내 수업만·모든 교시) · 언제(시작 시각~10분 전) · 띄우는 방식(작은 알림·가운데 큰 팝업·화면 전체) · 모니터 · 소리 · 목소리(여자·남자) · 큰 글씨·멘트가 펼쳐집니다(자세히 → <a class="link" href="#w-ttalm">6-1 수업 전 알림</a>). 기본값 그대로면 <b>과목을 적어 둔 교시만</b> 윈도우 알림으로 울리고, 알림은 누를 때까지 남습니다. 주말은 「주말 수업」을 따르고, 앱이 꺼져 있던 동안 지나간 교시·켜는 순간 이미 지난 교시는 울리지 않습니다. 윈도우 <b>「집중 지원(방해 금지)」</b>이 켜져 있으면 알림이 안 뜹니다.</dd>
               <dt>🔴 주말 수업</dt><dd>「토요일 칸 보이기」 · 「일요일 칸 보이기」 <span class="val">(둘 다 기본 꺼짐)</span> — 꺼도 적어 둔 과목이 지워지지는 않습니다.</dd>
               <dt>교시 시각을 어떻게 정할까요</dt><dd><b>자동 계산 (추천)</b> · <b>수기 입력</b> <span class="val">(기본 자동 계산)</span></dd>
               <dt>└ 자동 계산일 때</dt><dd>1교시 시작 <span class="val">08:50</span> · 수업 시간(분) <span class="val">45</span> · 쉬는 시간(분) <span class="val">10</span> · 총 교시 <span class="val">7</span>(1~15) · 점심시간 「몇 교시 뒤」 <span class="val">4</span> · 「점심 시간(분)」 <span class="val">50</span>. 수기 입력으로 바꾸면 이 칸들은 사라집니다.</dd>
@@ -3590,7 +3683,7 @@
           </div>
           <details class="tabshot">
             <summary><svg class="ic" viewBox="0 0 24 24"><rect x="3" y="4.5" width="18" height="15" rx="2"/><path d="M3 9h18"/></svg>[시간표] 탭 화면 보기</summary>
-            <img src="shots/20-cfg-03-tt.webp" width="1320" height="1544" alt="설정 시간표 탭" loading="lazy" />
+            <img src="shots/20-cfg-03-tt.webp" width="1320" height="1271" alt="설정 시간표 탭" loading="lazy" />
           </details>
         </div>
 
@@ -3599,7 +3692,7 @@
             <h4>학교 — 학교 등록 · 시간표 출처 · NEIS 키</h4>
             <dl>
               <dt>학교 찾기</dt><dd>학교명 칸에 이름 → <b>[검색]</b> → 목록에서 우리 학교 줄을 누르면 그 자리에서 저장되고 날씨 좌표도 이어서 찾습니다. 못 찾으면 「「용산초」처럼 짧게」 넣어 보라고 알려 드려요. NEIS 키가 없으면 같은 이름 학교가 <b>5곳까지만</b> 보입니다.</dd>
-              <dt>담임반</dt><dd>학년·반 숫자 두 칸 — 넣으면 <b>출결</b>과 학반 시간표의 담임반(★)이 열립니다. 교과로만 들어가시면 비워 두세요.</dd>
+              <dt>담임반</dt><dd>학년·반 숫자 두 칸 — 넣으면 <b>출결</b>과 학반 시간표의 담임반(★)이 열립니다. 담임이 아니시면 <b>[비담임]</b>을 누르세요 — 출결은 명렬에 넣은 반으로 보고, 생기부 학반 칸은 비워 둡니다(학년·반을 0으로 적어 두셔도 비담임으로 봅니다). 다시 누르면 풀립니다. <span class="ftag hid">v3.48~</span></dd>
               <dt>시간표 출처</dt><dd>나이스 · <b>컴시간알리미</b> <span class="val">(기본 나이스)</span> — 나이스에 시간표가 없거나 일부만 나오는 학교는 컴시간으로 바꿔 보세요. 급식·학사일정은 어느 쪽이든 나이스에서 옵니다.</dd>
               <dt>└ 컴시간 쓰는 순서</dt><dd>① [컴시간알리미]를 고르고 ② 「학교 이름 일부」(「원일중학교」보다 <b>「원일중」</b>) → [검색] → 줄 누르기 ③ 「누구 시간표」 <b>[내 이름으로] / [우리 반으로]</b> → <b>[고르기]</b> → 이름이나 반 누르기 ④ <b>[지금 가져오기]</b>. 이미 적은 시간표가 있으면 「[전체 시간표]와 교사 이름도 함께 바뀝니다」라고 묻고, 가져온 뒤 5초쯤 [되돌리기]가 뜹니다. 학교를 바꾸면 ③을 다시 고르셔야 합니다.</dd>
               <dt>└ 컴시간 자동 갱신</dt><dd>켬 · 끔 <span class="val">(기본 켬 · 오전 8시·오후 1시)</span> — 학교를 고른 뒤에만 보입니다. 이번주 교체·대체 수업까지 들어옵니다.</dd>
@@ -3612,7 +3705,7 @@
           </div>
           <details class="tabshot">
             <summary><svg class="ic" viewBox="0 0 24 24"><rect x="3" y="4.5" width="18" height="15" rx="2"/><path d="M3 9h18"/></svg>[학교] 탭 화면 보기</summary>
-            <img src="shots/20-cfg-04-school.webp" width="1320" height="1544" alt="설정 학교 탭" loading="lazy" />
+            <img src="shots/20-cfg-04-school.webp" width="1320" height="1271" alt="설정 학교 탭" loading="lazy" />
           </details>
         </div>
 
@@ -3627,7 +3720,7 @@
           </div>
           <details class="tabshot">
             <summary><svg class="ic" viewBox="0 0 24 24"><rect x="3" y="4.5" width="18" height="15" rx="2"/><path d="M3 9h18"/></svg>[AI] 탭 화면 보기</summary>
-            <img src="shots/20-cfg-05-ai.webp" width="1320" height="862" alt="설정 AI 탭" loading="lazy" />
+            <img src="shots/20-cfg-05-ai.webp" width="1320" height="710" alt="설정 AI 탭" loading="lazy" />
           </details>
         </div>
 
@@ -3649,7 +3742,7 @@
           </div>
           <details class="tabshot">
             <summary><svg class="ic" viewBox="0 0 24 24"><rect x="3" y="4.5" width="18" height="15" rx="2"/><path d="M3 9h18"/></svg>[화면] 탭 화면 보기</summary>
-            <img src="shots/20-cfg-06-win.webp" width="1320" height="1544" alt="설정 화면 탭" loading="lazy" />
+            <img src="shots/20-cfg-06-win.webp" width="1320" height="1271" alt="설정 화면 탭" loading="lazy" />
           </details>
         </div>
 
@@ -3675,7 +3768,7 @@
           </div>
           <details class="tabshot">
             <summary><svg class="ic" viewBox="0 0 24 24"><rect x="3" y="4.5" width="18" height="15" rx="2"/><path d="M3 9h18"/></svg>[데이터] 탭 화면 보기</summary>
-            <img src="shots/20-cfg-07-data.webp" width="1320" height="1544" alt="설정 데이터 탭" loading="lazy" />
+            <img src="shots/20-cfg-07-data.webp" width="1320" height="1271" alt="설정 데이터 탭" loading="lazy" />
           </details>
         </div>
 
@@ -3694,7 +3787,7 @@
           </div>
           <details class="tabshot">
             <summary><svg class="ic" viewBox="0 0 24 24"><rect x="3" y="4.5" width="18" height="15" rx="2"/><path d="M3 9h18"/></svg>[업무포털] 탭 화면 보기</summary>
-            <img src="shots/20-cfg-08-portal.webp" width="1320" height="1544" alt="설정 업무포털 탭" loading="lazy" />
+            <img src="shots/20-cfg-08-portal.webp" width="1320" height="1271" alt="설정 업무포털 탭" loading="lazy" />
           </details>
         </div>
 
@@ -3712,7 +3805,7 @@
           </div>
           <details class="tabshot">
             <summary><svg class="ic" viewBox="0 0 24 24"><rect x="3" y="4.5" width="18" height="15" rx="2"/><path d="M3 9h18"/></svg>[의견] 탭 화면 보기</summary>
-            <img src="shots/20-cfg-09-tele.webp" width="1320" height="1544" alt="설정 의견 탭" loading="lazy" />
+            <img src="shots/20-cfg-09-tele.webp" width="1320" height="1271" alt="설정 의견 탭" loading="lazy" />
           </details>
         </div>
 
@@ -3728,7 +3821,7 @@
           </div>
           <details class="tabshot">
             <summary><svg class="ic" viewBox="0 0 24 24"><rect x="3" y="4.5" width="18" height="15" rx="2"/><path d="M3 9h18"/></svg>[도움말] 탭 화면 보기</summary>
-            <img src="shots/20-cfg-10-help.webp" width="1320" height="1544" alt="설정 도움말 탭" loading="lazy" />
+            <img src="shots/20-cfg-10-help.webp" width="1320" height="1271" alt="설정 도움말 탭" loading="lazy" />
           </details>
         </div>
       </section>
